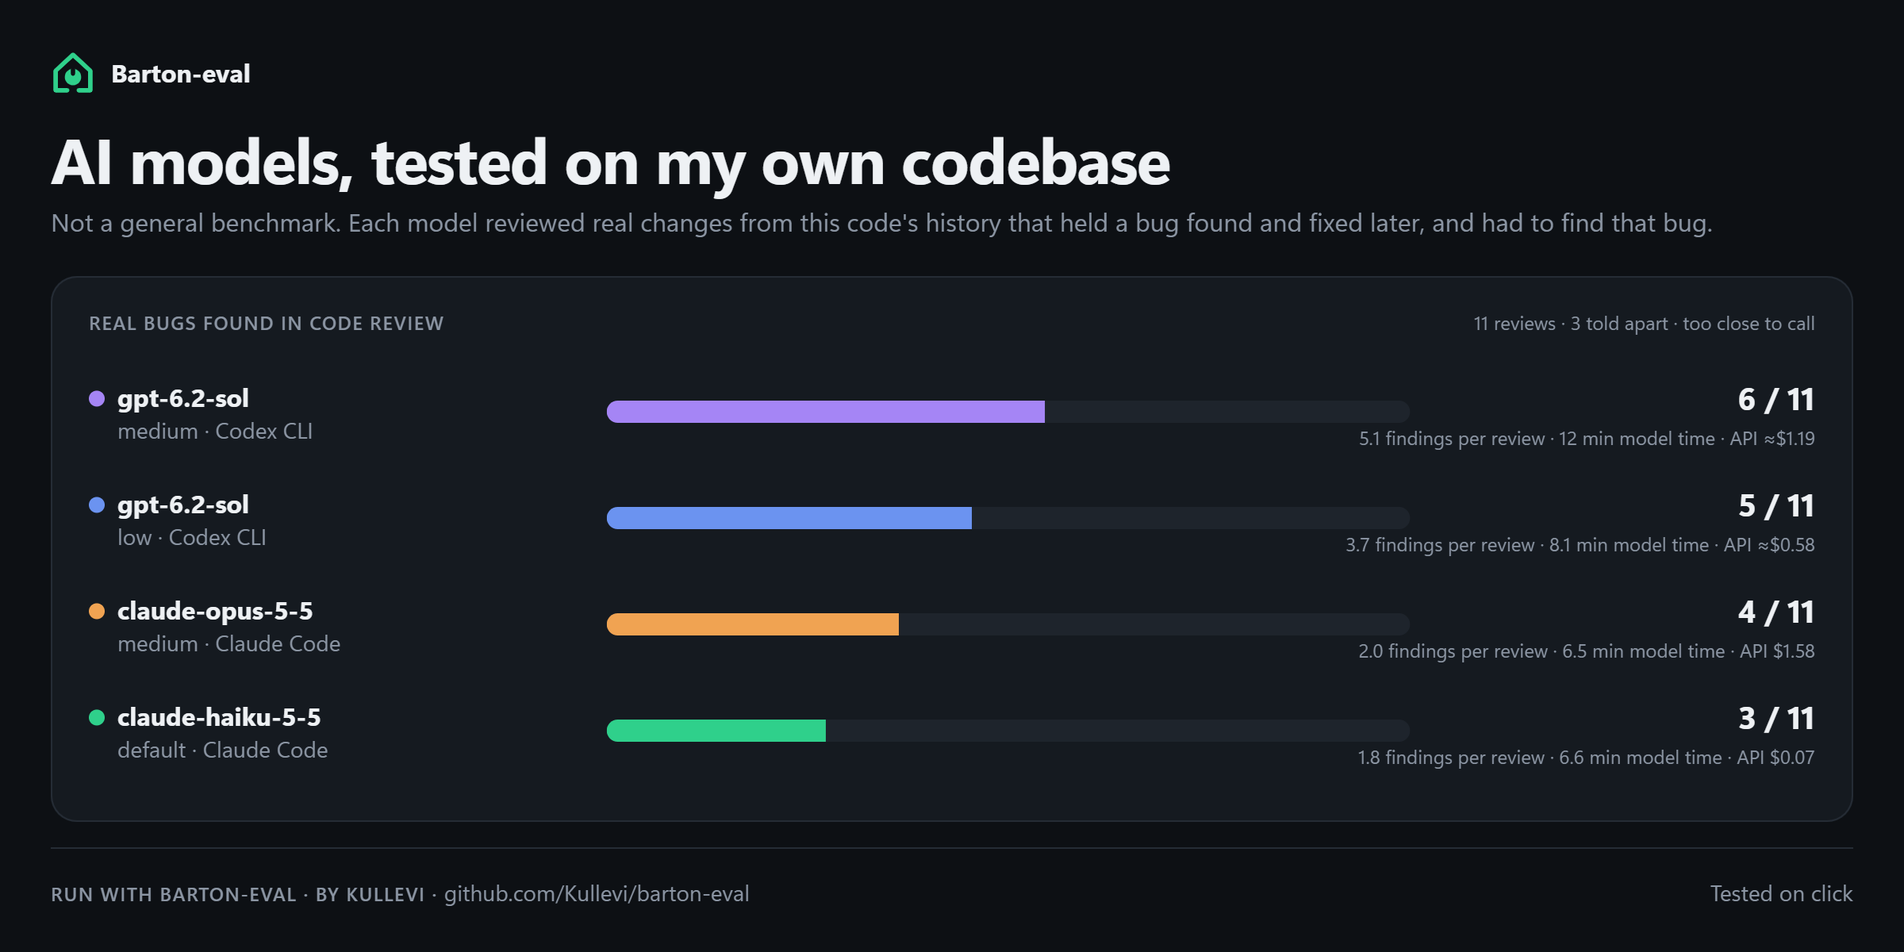
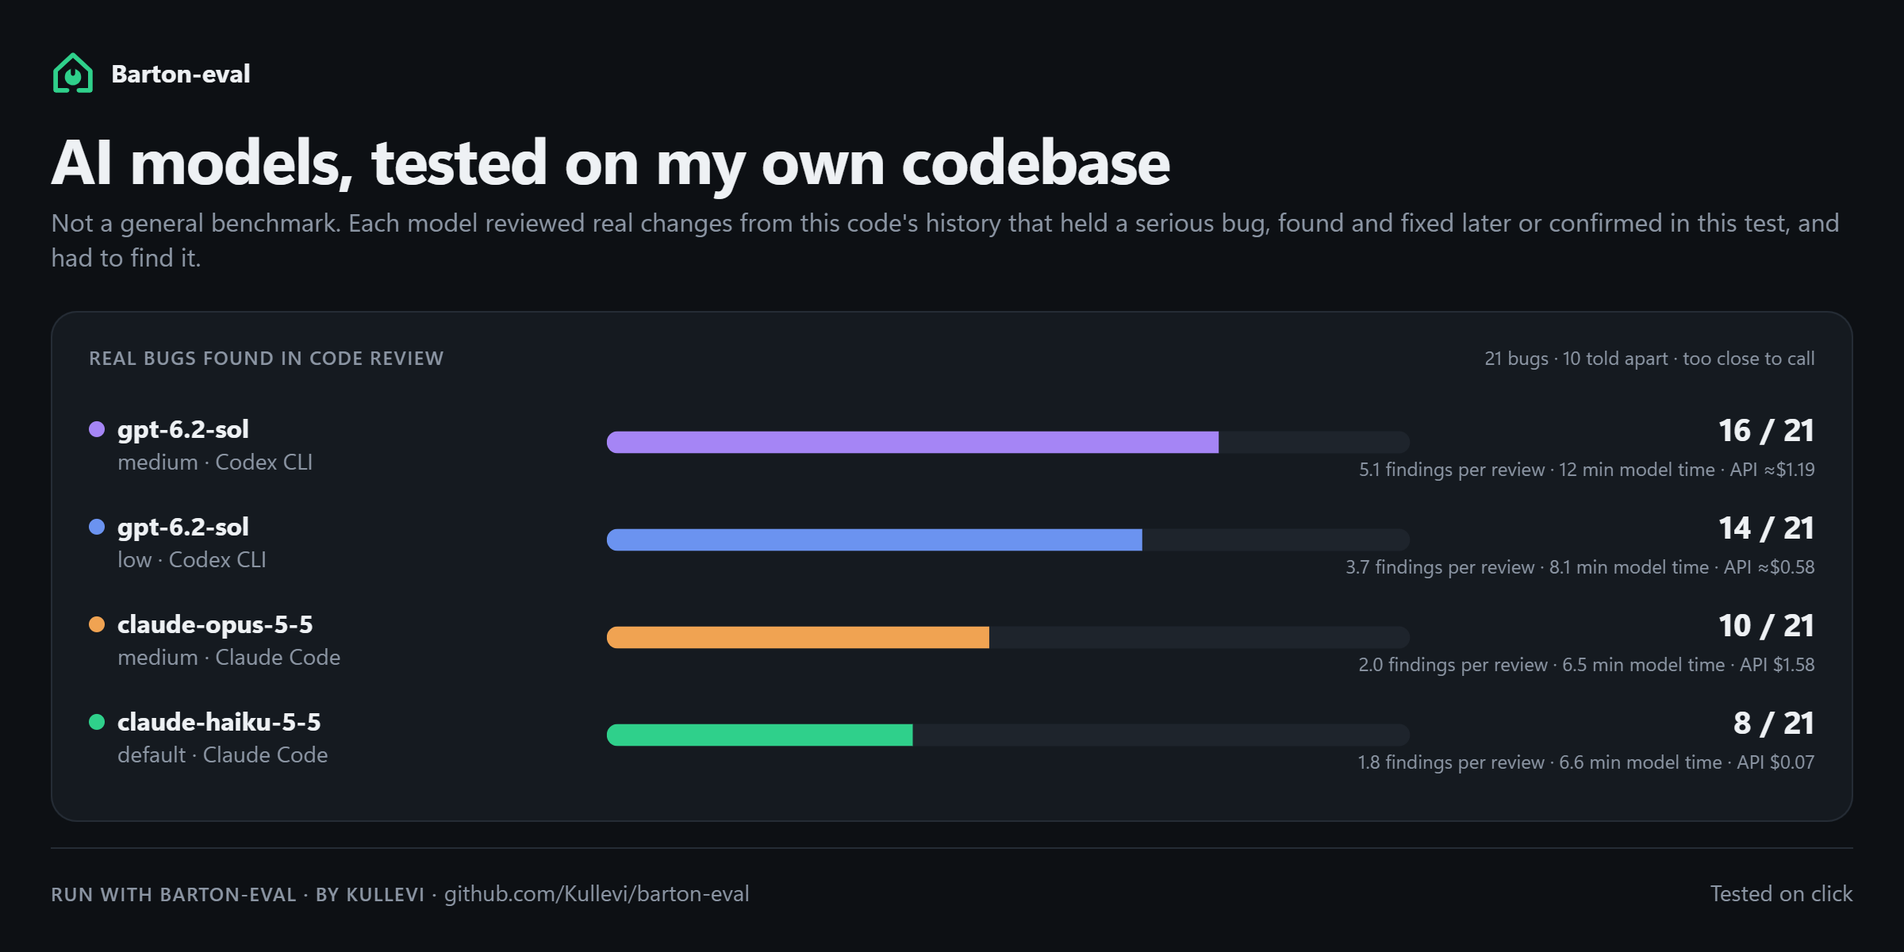
Serious bugs a review finds become answer keys for every model; small ones never count

diff --git a/report.html b/report.html
@@ -140,13 +140,15 @@ function settings(kind) {
     const effort = r.effort || "default";
     const key = `${r.model}|${r.harness}|${effort}`;
     if (!map.has(key)) map.set(key, { key, model: r.model, harness: r.harness, effort, hits: 0, n: 0, secs: 0, cost: 0,
-      costKnown: true, costEst: false, attempts: new Set(), tasks: new Set(), methods: new Set(), other: 0, findings: 0 });
+      costKnown: true, costEst: false, attempts: new Set(), tasks: new Set(), methods: new Set(), other: 0, findings: 0, reviews: 0 });
     const s = map.get(key);
     s.n += 1; s.hits += ["solved", "found"].includes(r.outcome) ? 1 : 0;
     s.secs += r.seconds || 0; s.attempts.add(r.attempt); s.tasks.add(r.task); s.methods.add(r.method);
     if (r.cost_usd == null) s.costKnown = false; else s.cost += r.cost_usd;
     if (r.cost_kind === "estimated") s.costEst = true;
-    s.other += r.other_findings || 0; s.findings += r.findings || 0;
+    s.other += r.other_findings || 0;
+    // A bug found later is judged from the same review: one review, counted once.
+    if (!r.review_of) { s.findings += r.findings || 0; s.reviews += 1; }
   }
   const list = [...map.values()];
   const efforts = m => new Set(list.filter(s => s.model === m).map(s => s.effort)).size;
@@ -199,7 +201,7 @@ function scoreSpec(kind, color) {
       name: s.model, tag: s.tag, detail: s.detail, color: color(s.key),
       segs: Array.from({ length: s.n }, (_, i) => i < s.hits ? "w" : "l"),
       // A reviewer that raises many alarms finds more by raising more: the count stands beside the score.
-      value: `${s.hits} / ${s.n}`, note: [write ? "" : `${(s.findings / s.n).toFixed(1)} findings per review`,
+      value: `${s.hits} / ${s.n}`, note: [write ? "" : `${(s.findings / (s.reviews || 1)).toFixed(1)} findings per review`,
         fmtMin(s.secs / s.runs) + " model time", costText(s)].filter(Boolean).join(" · "),
     })),
   };
@@ -347,7 +349,7 @@ function panelsOf() {
 // The panel's note: how much it rests on, and "too close to call" when a gap may be chance.
 const noteOf = p => p.key === "write-quality" ? plural(p.n, "comparison") + (p.clear ? "" : " · no clear winner")
   : p.easy ? "too easy to tell apart"
-  : `${plural(p.n, p.key.startsWith("write") ? "task" : "review")}${p.runs === 1 ? "" : ` · ${p.runs} runs each`}`
+  : `${plural(p.n, p.key.startsWith("write") ? "task" : "bug")}${p.runs === 1 ? "" : ` · ${p.runs} runs each`}`
     + (p.key.endsWith("-score") && p.rows.length > 1 && apartCount(p.key.split("-")[0]) ? ` · ${apartCount(p.key.split("-")[0])} told apart` : "")
     + (p.close ? " · too close to call" : "");
 
@@ -357,7 +359,7 @@ function intro(P) {
   return {
     headline: "AI models, tested on my own codebase",
     sub: ["Not a general benchmark.",
-      P.write ? "Each model redid real changes from this code's history, and the original tests decided whether it succeeded." : "Each model reviewed real changes from this code's history that held a bug found and fixed later, and had to find that bug.",
+      P.write ? "Each model redid real changes from this code's history, and the original tests decided whether it succeeded." : "Each model reviewed real changes from this code's history that held a serious bug, found and fixed later or confirmed in this test, and had to find it.",
       DATA.quick ? "A quick run, on few tasks." : ""].filter(Boolean).join(" "),
   };
 }

diff --git a/barton.py b/barton.py
@@ -778,7 +778,8 @@ def cmd_task_remove(args) -> None:
     b = Barton(Path(args.repo))
     cfg = b.config()
     before = len(cfg.get("tasks", []))
-    cfg["tasks"] = [t for t in cfg.get("tasks", []) if t["id"] != args.task]
+    cfg["tasks"] = [t for t in cfg.get("tasks", []) if t["id"] != args.task
+                    and (t.get("plant") or {}).get("of") != args.task]  # its found bugs go with it
     b.save_config(cfg)
     out({"removed": args.task if len(cfg["tasks"]) < before else None, "tasks": len(cfg["tasks"])})
 
@@ -971,6 +972,91 @@ def cmd_bug(args) -> None:
          "where": key, "share_of_fixed_lines": f"{len(spots)} of {total}",
          "note": "Read the fix and the introducing change: keep the task only if the code was "
                  "already wrong when that change was made, and the fix is not a change of mind."})
+
+
+def also_found(b: Barton, task_id: str) -> list[dict]:
+    """The bugs confirmed in the same change after the fact: each its own task, judged
+    from the review a model already wrote of that change."""
+    return [t for t in b.config().get("tasks", []) if (t.get("plant") or {}).get("of") == task_id]
+
+
+def share_review(b: Barton, row: dict) -> None:
+    """One review answers for every known bug in its change. The time and cost stay on
+    the review's own row, so nothing is counted twice."""
+    if row["outcome"] == "error":
+        return
+    for child in also_found(b, row["task"]):
+        new = {k: v for k, v in row.items() if k not in (
+            "judge_model", "judge_note", "at_the_place", "other_findings", "findings", "method")}
+        new.update(task=child["id"], source="found", run=child["id"] + row["run"][len(row["task"]):],
+                   review_of=row["run"], seconds=0, cost_usd=0, at=now(),
+                   tokens={"input": 0, "cached": 0, "output": 0})
+        if row.get("findings"):
+            new.update(outcome="pending", method="judge")
+        else:
+            new["outcome"] = "missed"
+        b.append_result(new)
+
+
+def cmd_findings(args) -> None:
+    """Every finding the reviews of one change made, anonymous and mixed, for a reader who
+    checks which are real bugs nobody knew about."""
+    b = Barton(Path(args.repo))
+    task = b.task(args.task)
+    pl = task.get("plant") or {}
+    if pl.get("kind") != "fixed":
+        fail("Give the task made with `barton bug`; bugs found later hang on that task.")
+    rows = [r for r in current_rows(b) if r["task"] == task["id"] and r["outcome"] != "error"]
+    items = []
+    for r in rows:
+        p = b.dir / "runs" / r["run"] / "review.json"
+        if p.exists():
+            items += [f for f in json.loads(p.read_text(encoding="utf-8")) if isinstance(f, dict)]
+    if not items:
+        fail("No review of this task has findings.")
+    random.Random().shuffle(items)
+    places = ", ".join(f"`{s_['file']}` lines {s_['line']}-{s_['end']}" for s_ in pl["spots"])
+    known = [f"- already known: {places}, fixed later by "
+             f"\"{git(b.repo, 'log', '-1', '--format=%s', pl['fix']).strip()[:200]}\""]
+    known += [f"- already known: {c['plant']['what']}" for c in also_found(b, task["id"])]
+    parts = [f"# Findings on one change\n\nThe change is commit `{task['reference'][:12]}` "
+             f"(its parent is `{task['base'][:12]}`). Several reviewers read it; these are all "
+             "their findings, mixed, and several may describe the same thing.\n",
+             "# Bugs already counted\n\n" + "\n".join(known) + "\n",
+             "# The findings\n\n" + "\n".join(
+                 f"{i}. `{f.get('file', '?')}` line {f.get('line', '?')}: "
+                 f"{anonymize(str(f.get('problem', '')), rows)}" for i, f in enumerate(items, 1)) + "\n"]
+    bundle = b.dir / "blind" / f"{task['id']}.findings.md"
+    bundle.parent.mkdir(parents=True, exist_ok=True)
+    bundle.write_text("\n".join(parts), encoding="utf-8")
+    out({"bundle": str(bundle), "findings": len(items), "reviews": len(rows)})
+
+
+def cmd_bug_found(args) -> None:
+    """Add a bug that a review found and a reader confirmed as real and serious. It
+    becomes one more answer key for the same change, and every review of that change,
+    past and coming, is judged against it."""
+    b = Barton(Path(args.repo))
+    parent = b.task(args.task)
+    if (parent.get("plant") or {}).get("kind") != "fixed":
+        fail("Give the task made with `barton bug`; bugs found later hang on that task.")
+    spots = []
+    for w in args.where:
+        m = re.fullmatch(r"(.+):(\d+)(?:-(\d+))?", w)
+        if not m:
+            fail(f"--where is FILE:LINE or FILE:LINE-END, not '{w}'.")
+        spots.append({"file": m[1].replace("\\", "/"), "line": int(m[2]), "end": int(m[3] or m[2])})
+    task = {"id": args.id, "kind": "review", "base": parent["base"], "reference": parent["reference"],
+            "source": "found", "prompt": parent["prompt"],
+            "plant": {"kind": "found", "of": parent["id"], "what": args.what.strip(), "spots": spots,
+                      "file": spots[0]["file"], "line": spots[0]["line"], "end": spots[0]["end"]}}
+    save_task(b, task)
+    rows = [r for r in current_rows(b) if r["task"] == parent["id"]]
+    for r in rows:
+        share_review(b, r)
+    out({"added": task["id"], "same_change_as": parent["id"],
+         "reviews_to_judge": sum(1 for r in rows if r["outcome"] != "error" and r.get("findings")),
+         "next": f"barton blind {task['id']}"})
 
 
 def changed_files(b: Barton, base: str, reference: str) -> dict[str, bytes | None]:
@@ -1237,6 +1323,11 @@ def cmd_run(args) -> None:
     else:
         ids = args.tasks
     tasks = [b.task(i) for i in dict.fromkeys(ids)]
+    if args.tasks in (["all"], ["quick"]):
+        tasks = [t for t in tasks if not (t.get("plant") or {}).get("of")]
+    elif any((t.get("plant") or {}).get("of") for t in tasks):
+        fail("A bug found later has no run of its own: run the task it belongs to, and the "
+             "same review is judged against both.")
     if not CODING_TASKS and any(t["kind"] == "write" for t in tasks):
         fail(COMING_SOON)
     recorded = b.results()
@@ -1379,6 +1470,7 @@ def run_one(b: Barton, task: dict, args) -> dict:
             row["method"] = "planted"
             row.update(grade_review(task, folder, run_dir, u.get("final", "")))
         b.append_result(row)
+        share_review(b, row)
         out({"result": row})
         return row
     finally:
@@ -1484,6 +1576,13 @@ def cmd_blind(args) -> None:
                      "A finding about something else does not count.\n",
                      f"# The bug (answer key)\n\nIn the reviewed change: {places}. The later fix, "
                      f"its message and then its diff:\n\n```diff\n{clipped(fix)}\n```\n"]
+        elif pl.get("kind") == "found":
+            places = ", ".join(f"`{s_['file']}` lines {s_['line']}-{s_['end']}" for s_ in pl["spots"])
+            parts = ["# Review task\n\nSeveral reviewers looked at the same change. It held the "
+                     "bug described below. For each review, decide only whether it identifies "
+                     "this bug: the same wrong behaviour, named at the place of the bug or where "
+                     "it shows, in any words. A finding about something else does not count.\n",
+                     f"# The bug (answer key)\n\nIn the reviewed change: {places}.\n\n{pl['what']}\n"]
         else:
             parts = ["# Review task\n\nSeveral reviewers looked at the same commit. One bug was "
                      "planted in it on purpose. For each review, decide only whether it identifies "
@@ -1500,7 +1599,7 @@ def cmd_blind(args) -> None:
         label = chr(ord("A") + i)
         labels[label] = r["run"]
         if task["kind"] == "review":
-            text = (b.dir / "runs" / r["run"] / "final.txt").read_text(encoding="utf-8")
+            text = (b.dir / "runs" / r.get("review_of", r["run"]) / "final.txt").read_text(encoding="utf-8")
             parts.append(f"# Review {label}\n\n{clipped(anonymize(text, runs))}\n")
         else:
             patch = (b.dir / "runs" / r["run"] / "diff.patch").read_text(encoding="utf-8")
@@ -1901,6 +2000,13 @@ def main(argv: list[str] | None = None) -> None:
     sp.add_argument("fix", help="the commit that fixed the bug")
     sp.add_argument("--max-lines", type=int, default=1500, help="largest introducing change to review")
     sp.add_argument("--prompt")
+    sp = p("findings", cmd_findings, "every finding on one task, anonymous: which are real bugs nobody knew")
+    sp.add_argument("task")
+    sp = p("bug-found", cmd_bug_found, "add a confirmed, serious bug a review found as one more answer key")
+    sp.add_argument("task", help="the task whose change holds the bug")
+    sp.add_argument("id", help="id of the new task")
+    sp.add_argument("--where", action="append", required=True, metavar="FILE:LINE[-END]")
+    sp.add_argument("--what", required=True, help="the wrong behaviour, in a few sentences")
     sp = p("run", cmd_run, "run one model on tasks, several at once, and record each")
     sp.add_argument("tasks", nargs="+", help="task ids, all, or quick")
     sp.add_argument("--jobs", type=int, default=JOBS, help="runs at the same time")

diff --git a/tests/test_barton.py b/tests/test_barton.py
@@ -297,6 +297,43 @@ class RepoTest(unittest.TestCase):
         with self.assertRaises(SystemExit), contextlib.redirect_stdout(io.StringIO()):
             barton.main(["bug", "--repo", str(self.repo), "r1", self.fix])  # only adds new code
 
+    def test_a_bug_a_review_found_becomes_one_more_answer_key(self):
+        self._bug_and_fix()
+        call("bug", "--repo", str(self.repo), "r1", "HEAD")
+        b = barton.Barton(self.repo)
+        for model, findings in (("m1", [{"file": "shop.py", "line": 8, "problem": "label has no space check"}]),
+                                ("m2", [])):
+            b.append_result({"run": f"r1-{model}-default-1", "task": "r1", "kind": "review", "model": model,
+                             "harness": "h", "effort": None, "attempt": 1, "seconds": 30, "cost_usd": 0.5,
+                             "outcome": "pending" if findings else "missed", "findings": len(findings)})
+            d = b.dir / "runs" / f"r1-{model}-default-1"
+            d.mkdir(parents=True)
+            (d / "final.txt").write_text(f"review by {model}: {findings}")
+            (d / "review.json").write_text(json.dumps(findings))
+        got = call("findings", "--repo", str(self.repo), "r1")
+        text = Path(got["bundle"]).read_text()
+        self.assertIn("label has no space check", text)
+        self.assertIn("Fix tax being subtracted", text)  # what is already counted
+        self.assertNotIn("m1", text)
+        d = call("bug-found", "--repo", str(self.repo), "r1", "r1b", "--where", "shop.py:8",
+                 "--what", "label() joins the price and the unit wrongly")
+        self.assertEqual(d["reviews_to_judge"], 1)
+        rows = {r["model"]: r for r in barton.current_rows(b) if r["task"] == "r1b"}
+        # The same review answers for the new bug: no findings is a miss, the rest wait for
+        # the judge, and the time and cost are not counted twice.
+        self.assertEqual((rows["m1"]["outcome"], rows["m2"]["outcome"]), ("pending", "missed"))
+        self.assertEqual((rows["m1"]["seconds"], rows["m1"]["cost_usd"], rows["m1"]["review_of"]),
+                         (0, 0, "r1-m1-default-1"))
+        key = Path(call("blind", "--repo", str(self.repo), "r1b")["bundle"]).read_text()
+        self.assertIn("joins the price and the unit wrongly", key)
+        self.assertIn("review by <model>", key)
+        call("verdict", "--repo", str(self.repo), "r1b", "A", "found", "--judge-model", "j", "--note", "n")
+        self.assertEqual({r["model"]: r["outcome"] for r in barton.current_rows(b) if r["task"] == "r1b"},
+                         {"m1": "found", "m2": "missed"})
+        with self.assertRaises(SystemExit), contextlib.redirect_stdout(io.StringIO()):
+            barton.main(["run", "--repo", str(self.repo), "r1b", "--harness", "claude", "--model", "m3"])
+        self.assertEqual(call("task-remove", "--repo", str(self.repo), "r1")["tasks"], 0)
+
     def test_a_task_from_before_real_bugs_still_runs(self):
         b = barton.Barton(self.repo)
         task = {"id": "old", "kind": "review", "base": self.fix + "^", "reference": self.fix,

diff --git a/README.md b/README.md
@@ -7,7 +7,7 @@ one. Did it find the bug? A model's whole run takes minutes, and you get a card
 you can share: how many of your own bugs each model found, and what it took in
 time and money.
 
-![The Barton results page from a real run on the open-source click library: GPT-6.2 Sol at two effort levels, Claude Opus 5.5 and Claude Haiku 5.5 reviewing 11 changes that each held a real bug](docs/report.png)
+![The Barton results page from a real run on the open-source click library: GPT-6.2 Sol at two effort levels, Claude Opus 5.5 and Claude Haiku 5.5 reviewing 11 changes that held 21 serious bugs](docs/report.png)
 
 **To get started, give the link to this page to Claude or Codex and ask it to
 set up Barton for you.** Then say something like *"test GPT-6.2 Sol on my
@@ -66,11 +66,13 @@ same tasks.
 *The share image from a run on the open-source
 [click](https://github.com/pallets/click) library, in dark mode. Eleven changes
 from click's history each held a bug its maintainers fixed later, from a pager
-file left open in 2014 to a flag value instantiated by mistake in 2025. No
-model found more than six. Six against five can be chance on eleven tasks, so
-the card says "too close to call"; three tasks told the models apart. GPT-6.2
-Sol found the most and also raised the most findings per review, which is why
-that count is on the card.*
+file left open in 2014 to a flag value instantiated by mistake in 2025. The
+reviews also found ten more serious bugs in those changes, each confirmed
+against the code and fixed by click's maintainers in a later commit, so every
+model was judged on all 21. Small issues were not counted. GPT-6.2 Sol found
+the most; the two Sol settings are too close to call, and ten bugs told the
+models apart. Findings per review is on the card because a model that raises
+more also finds more.*
 
 ## Who does what
 
@@ -107,6 +109,12 @@ that count is on the card.*
   folder paths are removed, reviews are labelled A, B, C in random order, and
   each task goes to a fresh judge. Your assistant prefers the other vendor's
   model as judge. A review with no findings is a miss without a judge.
+- **A bug nobody knew about counts too, if it is serious.** A review may find
+  a real bug that is not the one from the history. Your assistant checks every
+  finding against the code, and one that is both real and serious becomes one
+  more bug for that change: every model's review is then judged against it.
+  Small issues are never counted, however many, so a model cannot win by being
+  picky. You also get the list of confirmed bugs still in your code.
 - **A review is done by reading, in a copy.** Each model works in a fresh copy
   of your code as it was at that change, with no later history and no web
   access. It may not run your project, its tests or its tools, and may not
@@ -357,6 +365,7 @@ command prints JSON. Your assistant runs these; you never need to.
 | `task-remove ID` | Remove a task. |
 | `exclude ID --reason TEXT [--undo]` | Leave a faulty task off the card, listed with its reason. |
 | `run ID... \| all --harness claude\|codex\|agy --model M [--effort E] [--attempt N] [--jobs N] [--budget MIN] [--again]` | Run one model on tasks, up to 8 at once, each in a clean copy that is deleted afterwards, and record the results. `--budget` starts no new task after that many minutes. |
+| `findings ID` / `bug-found ID NEW --where FILE:LINE --what TEXT` | Every finding on one change, anonymous, for checking; and a confirmed, serious bug added as one more answer key. |
 | `blind ID` / `verdict ID LABEL found\|missed` | Anonymous bundle of reviews for a blind judge, and its verdict. |
 | `status` | Progress and scores so far. |
 | `report [--no-open]` | Build the results page and open it in a window of its own. Models are compared only on tasks every one of them has run. |

diff --git a/SKILL.md b/SKILL.md
@@ -220,6 +220,36 @@ verdict:
 
 `barton verdict <task> <label> found|missed --judge-model <judge model> --note "<one sentence>"`
 
+**Bugs nobody knew about.** A review may find a real bug that is not the
+answer key. A model must get credit for that, and every other model must be
+judged on the same bug. For every task, run `barton findings <task>`: it writes
+every finding the reviews of that change made, anonymous and mixed, with the
+bugs already counted. Give each bundle to a fresh helper that may read the
+project and its whole history, and ask it to check each finding against the
+code at that commit and name the ones that are both:
+
+- **real**: it can show from the code how the wrong behaviour happens, with the
+  input or call that triggers it. A later commit that fixed it is strong
+  support. "Could be a problem" is not enough; when in doubt it is not counted.
+- **serious**: in ordinary use of the project it gives a wrong result, loses or
+  corrupts data, crashes, hangs or opens a security hole. Style, naming,
+  documentation, tests, missing checks for input that cannot arrive, and
+  rare corners nobody would hit are small, however real.
+
+Only bugs that are both become answer keys. Small ones are never counted: a
+model must not win by being picky. Several findings about the same bug are one
+bug. Add each with
+
+`barton bug-found <task> <new id> --where <file>:<line>[-<end>] --what "<the wrong behaviour and how it happens>"`
+
+Barton then judges every model's existing review of that change against the new
+bug: no new run, no added time or cost. A review without findings has missed
+it; send the rest through `barton blind <new id>` and `barton verdict` as
+above, with a fresh judge. Hold the bugs from the history to the same bar: if
+a fix turns out to correct something small, exclude that task with the reason.
+Tell the user about the confirmed bugs that are still in today's code: that
+list is worth having on its own.
+
 **A bug no model found.** Before showing the result, read again every task no
 setting found, against the three conditions in step 4. If the task is not a
 fair one after all, take it off the card with

diff --git a/docs/DESIGN.md b/docs/DESIGN.md
@@ -58,7 +58,14 @@ run.
   raise: one model averaged six findings per review where another averaged
   two. With many findings one lands near the fixed lines by chance, so place
   alone is not a find. A blind judge reads each review against the fix. A
-  review with no findings is a miss without a judge. The card shows findings
+  review with no findings is a miss without a judge.
+- **The list of known bugs grows.** A review can find a real bug the history
+  never fixed. Counting only the history's bug would punish the best reviewer;
+  counting every finding would reward the pickiest. So the session checks the
+  findings of a change, and one that is real and serious becomes another task
+  on the same change (`bug-found`), judged for every model from the review it
+  already wrote. Whether a bug is real and serious is a judgment, made by a
+  reader with the code in front of it, not a rule in Barton. The card shows findings
   per review beside the score.
 - **History is required.** A project without git history, or with no fixes in
   it yet, gets no run: the test leader offers to start saving history, and
